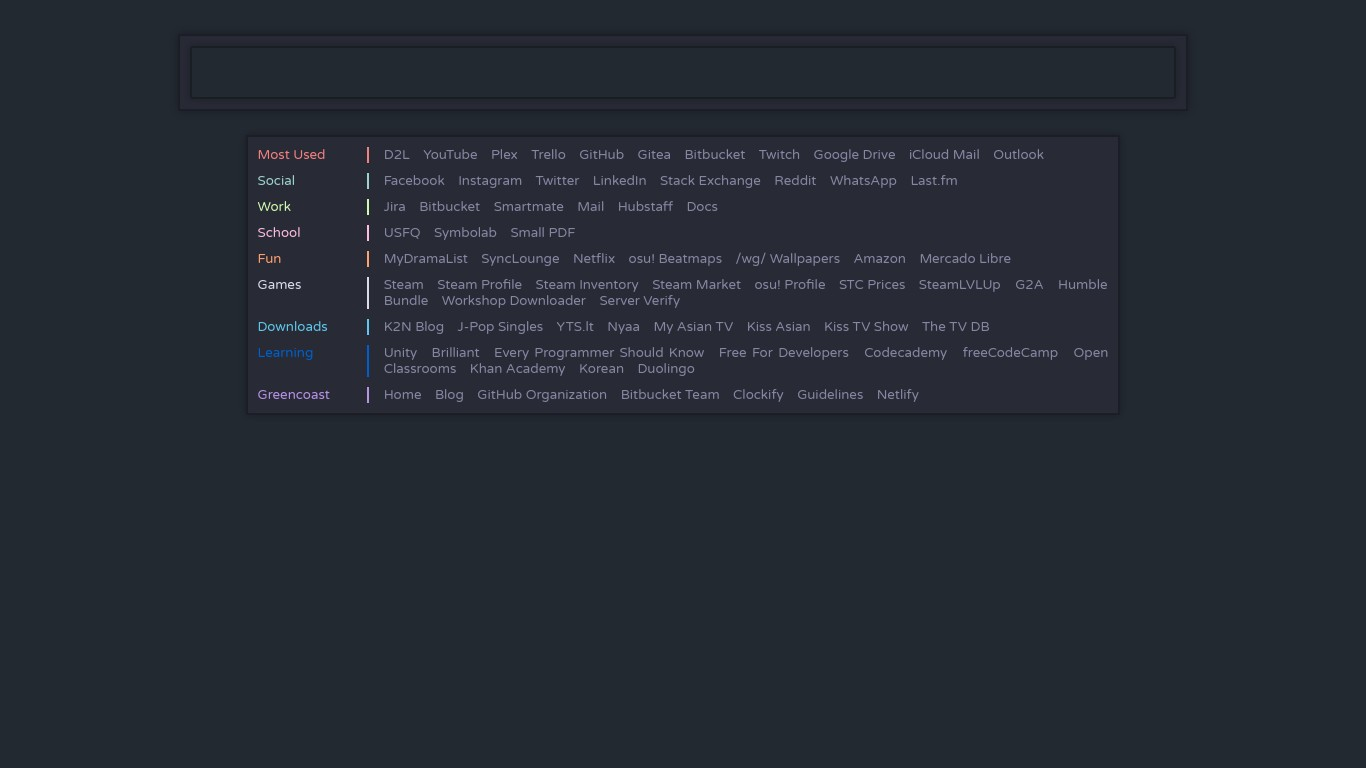
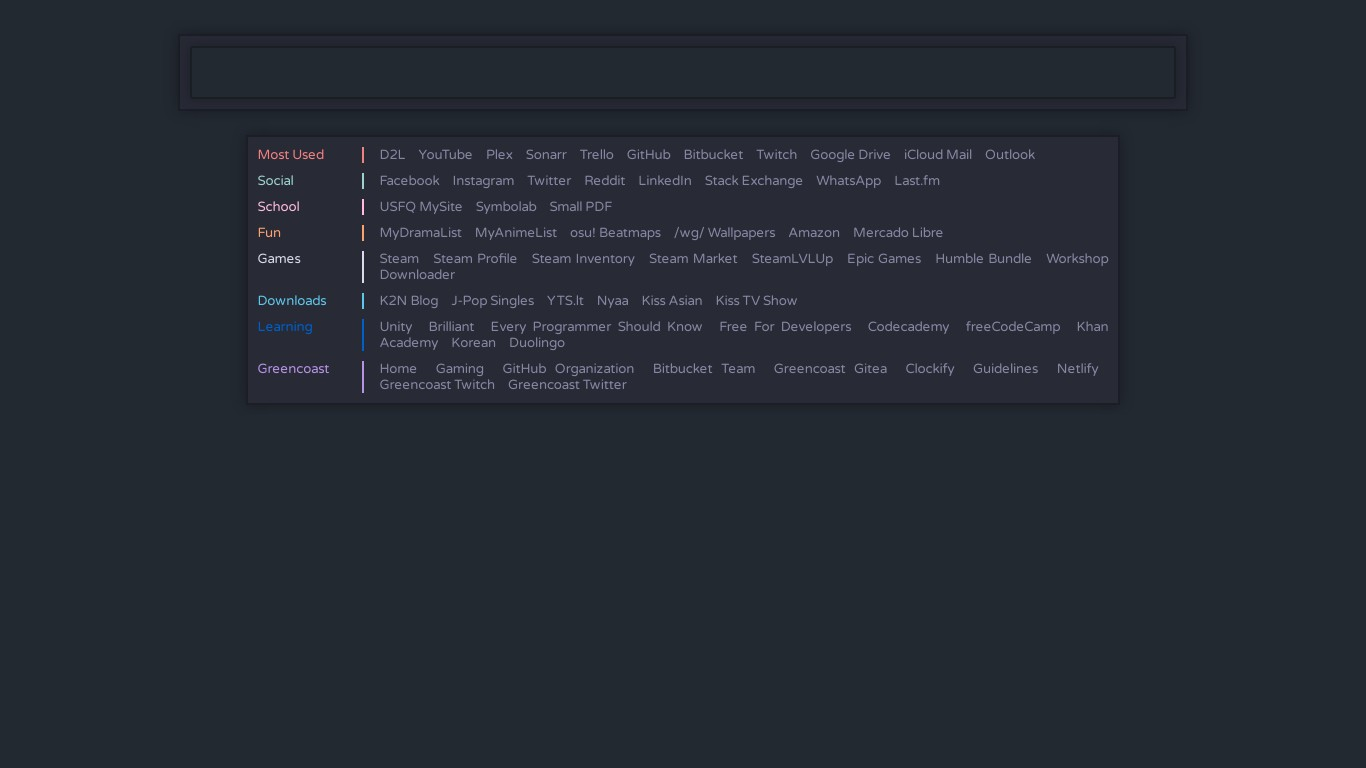
Updated homepage in archive.

Changed region(s): [[0.1845, 0.1875, 0.7994, 0.5312], [0.2152, 0.1875, 0.246, 0.2188]]

diff --git a/archive/homepage/v4/index.html b/archive/homepage/v4/index.html
@@ -25,9 +25,9 @@
             <a href="https://miusfv.usfq.edu.ec/d2l/home">D2L</a>
             <a href="https://youtube.com/">YouTube</a>
             <a href="https://app.plex.tv/desktop">Plex</a>
+            <a href="https://media.greencoaststudios.com/sonarr">Sonarr</a>
             <a href="https://trello.com/moonstar_x/boards">Trello</a>
             <a href="https://github.com/moonstar-x">GitHub</a>
-            <a href="https://git.greencoaststudios.com/">Gitea</a>
             <a href="https://bitbucket.org/moonstar-x/">Bitbucket</a>
             <a href="https://www.twitch.tv/moonstar_x">Twitch</a>
             <a href="https://drive.google.com/drive/my-drive">Google Drive</a>
@@ -42,30 +42,18 @@
             <a href="https://www.facebook.com/">Facebook</a>
             <a href="https://www.instagram.com/">Instagram</a>
             <a href="https://twitter.com/">Twitter</a>
+            <a href="https://www.reddit.com/">Reddit</a>
             <a href="https://www.linkedin.com/in/moonstar-x/">LinkedIn</a>
             <a href="https://stackexchange.com/">Stack Exchange</a>
-            <a href="https://www.reddit.com/">Reddit</a>
             <a href="https://web.whatsapp.com/">WhatsApp</a>
             <a href="https://www.last.fm/user/moonstar-x">Last.fm</a>
-          </div>
-        </div>
-      
-        <div class="links-section work">
-          <div class="label">Work</div>
-          <div class="link-list">
-            <a href="https://start.atlassian.com/">Jira</a>
-            <a href="https://bitbucket.org/dashboard/overview">Bitbucket</a>
-            <a href="https://devsu.smartmate.io">Smartmate</a>
-            <a href="http://mail.devsu.com/">Mail</a>
-            <a href="https://app.hubstaff.com/dashboard/">Hubstaff</a>
-            <a href="https://docs.devsu.us">Docs</a>
           </div>
         </div>
       
         <div class="links-section school">
           <div class="label">School</div>
           <div class="link-list">
-            <a href="https://mysite.usfq.edu.ec/default.aspx">USFQ</a>
+            <a href="https://mysite.usfq.edu.ec/Pages/home.aspx">USFQ MySite</a>
             <a href="https://www.symbolab.com/">Symbolab</a>
             <a href="https://smallpdf.com/">Small PDF</a>
           </div>
@@ -74,9 +62,8 @@
         <div class="links-section fun">
           <div class="label">Fun</div>
           <div class="link-list">
-            <a href="https://mydramalist.com/profile">MyDramaList</a>
-            <a href="http://app.synclounge.tv/">SyncLounge</a>
-            <a href="https://www.netflix.com/browse">Netflix</a>
+            <a href="https://mydramalist.com/profile/m4d">MyDramaList</a>
+            <a href="https://myanimelist.net/profile/moonstar_x">MyAnimeList</a>
             <a href="https://osu.ppy.sh/beatmapsets">osu! Beatmaps</a>
             <a href="https://boards.4chan.org/wg/">/wg/ Wallpapers</a>
             <a href="https://www.amazon.com/">Amazon</a>
@@ -91,13 +78,10 @@
             <a href="https://steamcommunity.com/id/moonstar-x">Steam Profile</a>
             <a href="https://steamcommunity.com/id/moonstar-x/inventory/">Steam Inventory</a>
             <a href="https://steamcommunity.com/market/">Steam Market</a>
-            <a href="https://osu.ppy.sh/users/4051250">osu! Profile</a>
-            <a href="https://steam.tools/cards/">STC Prices</a>
             <a href="https://steamlvlup.com/">SteamLVLUp</a>
-            <a href="https://www.g2a.com/en/">G2A</a>
+            <a href="https://www.epicgames.com/store/en-US/free-games">Epic Games</a>
             <a href="https://www.humblebundle.com/">Humble Bundle</a>
             <a href="https://steamworkshopdownloader.io/">Workshop Downloader</a>
-            <a href="http://api.steampowered.com/ISteamApps/GetServersAtAddress/v0001?addr=186.4.134.153&format=xml">Server Verify</a>
           </div>
         </div>
         
@@ -108,10 +92,8 @@
             <a href="https://jpopsingles.eu/">J-Pop Singles</a>
             <a href="https://yts.lt/">YTS.lt</a>
             <a href="https://nyaa.si/">Nyaa</a>
-            <a href="https://myasiantv.to/">My Asian TV</a>
             <a href="https://kissasian.sh/">Kiss Asian</a>
             <a href="http://kisstvshow.to/">Kiss TV Show</a>
-            <a href="https://www.thetvdb.com/">The TV DB</a>
           </div>
         </div>
         
@@ -124,7 +106,6 @@
             <a href="https://free-for.dev/#/">Free For Developers</a>
             <a href="https://www.codecademy.com/">Codecademy</a>
             <a href="https://learn.freecodecamp.org/">freeCodeCamp</a>
-            <a href="https://openclassrooms.com/en/">Open Classrooms</a>
             <a href="https://www.khanacademy.org/">Khan Academy</a>
             <a href="https://talktomeinkorean.com/">Korean</a>
             <a href="https://www.duolingo.com/">Duolingo</a>
@@ -135,12 +116,15 @@
           <div class="label">Greencoast</div>
           <div class="link-list">
             <a href="https://greencoaststudios.com/">Home</a>
-            <a href="https://blog.greencoaststudios.com/">Blog</a>
+            <a href="https://gaming.greencoaststudios.com/">Gaming</a>
             <a href="https://github.com/greencoast-studios">GitHub Organization</a>
             <a href="https://bitbucket.org/greencoast-studios/">Bitbucket Team</a>
+            <a href="https://git.greencoaststudios.com/">Greencoast Gitea</a>
             <a href="https://clockify.me/tracker">Clockify</a>
             <a href="https://docs.greencoaststudios.com/">Guidelines</a>
             <a href="https://app.netlify.com/teams/moonstar-x/sites">Netlify</a>
+            <a href="https://www.twitch.tv/greencoaststudios">Greencoast Twitch</a>
+            <a href="https://twitter.com/Greencoast_Dev">Greencoast Twitter</a>
           </div>
         </div>
 
